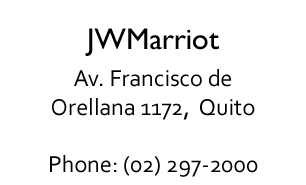
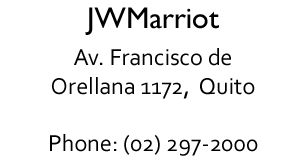
corre

Changed region(s): [[0.1471, 0.0305, 0.8529, 0.6707], [0.1471, 0.8232, 0.8529, 0.9756]]

diff --git a/bianca-spencer.html b/bianca-spencer.html
@@ -1598,8 +1598,6 @@
                         <p>&nbsp;</p>
                         <p>&nbsp;</p>
                         <p>&nbsp;</p>
-                        <p>- Dress Code -</p>
-                        <p>Formal - Black Tie Opcional</p>
                     </div>
                     <a class="nonblock nontext transition rounded-corners clearfix grpelem" id="u43135-4" href="https://goo.gl/maps/nwQYqJT55cfPmRgR6" target="_blank">
                         <!-- content -->
@@ -1620,10 +1618,10 @@
                         <!-- content -->
                         <p>Thursday, June 16th</p>
                         <p>Depart Time: 8:00 AM</p>
-                        <p>Cost per person: $159</p>
+
                         <p>&nbsp;</p>
 
-                        <p>Day trip to the historic Hato Verde farm where we will have recreational activities, includes transportation, activities and lunch
+                        <p>Day trip to the historic Porvenir farm where we will have recreational activities, includes transportation, activities and lunch
                         </p>
                         <p>&nbsp;</p>
                         <p>&nbsp;</p>
@@ -1720,7 +1718,7 @@
                 <div class="museBGSize" id="u43014">
 
                     <div class="clearfix" id="u43014_align_to_page">
-                        <img class="colelem" id="u43026-4" alt="" width="auto" height="61" src="images/letras2.png" data-hidpi-src="images/letras2.png" />
+                        <img class="colelem" id="u43026-4" alt="" width="auto" height="50" src="images/letras2.png" data-hidpi-src="images/letras2.png" />
 
                         <div class="clearfix colelem" id="u43029-13" style="color:black">
 
@@ -1760,7 +1758,7 @@
                         <div class="donde rounded-corners clearfix colelem" id="u41822-6">
                             <!-- content -->
                             <p id="u41822-2">CEREMONY AND RECEPCTION</p>
-                            <p id="u41822-4"><span id="u41822-3">Friday, July 30th 2022</span></p>
+                            <p id="u41822-4"><span id="u41822-3">Saturday, June 18th 2022</span></p>
                         </div>
 
                     </div>
@@ -1775,10 +1773,24 @@
                             <div class="clearfix colelem" id="u43035-4">
                                 <!-- content -->
                                 <p id="u41821-2">Ecuador</p>
-                                <p>Ecuador is a country with a vast and unparalleled natural and cultural wealth. The diversity of its four regions has given rise to hundreds of thousands of species of flora and fauna. It has about 1640 kinds of birds. Butterfly
+                                <p style="font-weight: 400;">Ecuador is a country with a vast and unparalleled natural and cultural wealth. The diversity of its four regions has given rise to hundreds of thousands of species of flora and fauna. It has about 1640 kinds of birds. Butterfly
                                     species border 4,500, reptiles 345, amphibians 358 and mammals 258, among others.
                                 </p>
+                                <p>&nbsp;</p>
+                                <p id="u41821-2">Travel in Ecuador</p>
+                                <p style="font-weight: 400;">We’ve assembled the best packages so you can travel around gorgeous Ecuador The travel agency will be at your service Hope you love it as much as we do!</p>
+                                <p>&nbsp;</p>
 
+                                <a class="nonblock nontext transition rounded-corners clearfix grpelem" id="tour" href="https://paquetes.speedtravel.com.ec/" target="_blank">
+                                    <!-- content -->
+                                    <p>TOURS</p>
+                                </a>
+
+
+                                <p>&nbsp;</p>
+                                <p>&nbsp;</p>
+                                <p>&nbsp;</p>
+                                <p id="u41821-2">Accomodation</p>
                             </div>
 
                             <div class="clearfix colelem" id="pu39888">
@@ -1790,7 +1802,7 @@
                             <div class="clearfix colelem" id="pu39882-12">
                                 <!-- group -->
                                 <a class="nonblock nontext grpelem" id="u39812-14" href="https://www.marriott.com/hotels/travel/uiodt-jw-marriott-hotel-quito/">
-                                    <!-- rasterized frame --><img id="u39812-14_img" alt="JWMarriot" width="306" height="185" src="images/Marriot.png" data-hidpi-src="images/Marriot.png" />
+                                    <!-- rasterized frame --><img id="u39812-14_img" alt="JWMarriot" width="auto" height="185" src="images/Marriot.png" data-hidpi-src="images/Marriot.png" />
                                 </a>
                             </div>
                             <div class="clearfix colelem" id="pu39885-4">

diff --git a/bianca-spencer-esp.html b/bianca-spencer-esp.html
@@ -1598,8 +1598,7 @@
                         <p>&nbsp;</p>
                         <p>&nbsp;</p>
                         <p>&nbsp;</p>
-                        <p>- Código de Vestimenta -</p>
-                        <p>Formal - Corbata Negra Opcional</p>
+
                     </div>
                     <a class="nonblock nontext transition rounded-corners clearfix grpelem" id="u43135-4" href="https://goo.gl/maps/nwQYqJT55cfPmRgR6" target="_blank">
                         <!-- content -->
@@ -1620,10 +1619,10 @@
                         <!-- content -->
                         <p>Jueves 16 de Junio</p>
                         <p>Hora de salida: 8:00 AM</p>
-                        <p>Costo por persona: $159</p>
+
                         <p>&nbsp;</p>
 
-                        <p>Day trip a la histórica granja de Hato Verde donde tendremos actividades recreativas, incluye transporte, actividades y almuerzo
+                        <p>Day trip a la histórica hacienda Porvenir donde tendremos actividades recreativas, incluye transporte, actividades y almuerzo
                         </p>
                         <p>&nbsp;</p>
                         <p>&nbsp;</p>
@@ -1761,7 +1760,7 @@
                         <div class="donde rounded-corners clearfix colelem" id="u41822-6">
                             <!-- content -->
                             <p id="u41822-2">CEREMONIA Y RECEPCIÓN</p>
-                            <p id="u41822-4"><span id="u41822-3">Viernes 30 de Julio del 2022</span></p>
+                            <p id="u41822-4"><span id="u41822-3">Sábado 18 de Junio del 2022</span></p>
                         </div>
 
                     </div>
@@ -1779,6 +1778,22 @@
                                 <p>Ecuador es un país con una vasta e inigualable riqueza natural y cultural. La diversidad de sus cuatro regiones ha dado lugar a cientos de miles de especies de flora y fauna. Tiene alrededor de 1640 clases de aves. Mariposa
                                     especies bordean 4.500, reptiles 345, anfibios 358 y mamíferos 258, entre otras.
                                 </p>
+
+                                <p>&nbsp;</p>
+                                <p id="u41821-2">Viaja en Ecuador</p>
+                                <p style="font-weight: 400;">Hemos reunido los mejores paquetes para que pueda viajar por el hermoso Ecuador. La agencia de viajes estará a su servicio. ¡Espero que le guste tanto como a nosotros!</p>
+                                <p>&nbsp;</p>
+
+                                <a class="nonblock nontext transition rounded-corners clearfix grpelem" id="tour" href="https://paquetes.speedtravel.com.ec/" target="_blank">
+                                    <!-- content -->
+                                    <p>TOURS</p>
+                                </a>
+
+
+                                <p>&nbsp;</p>
+                                <p>&nbsp;</p>
+                                <p>&nbsp;</p>
+                                <p id="u41821-2">Hospedaje</p>
 
                             </div>
 

diff --git a/css/bianca-spencer.css b/css/bianca-spencer.css
@@ -2,6 +2,53 @@
 
 */
 
+#tour {
+    z-index: 590;
+    width: 177px;
+    min-height: 33px;
+    -webkit-transition-duration: 1s;
+    -webkit-transition-delay: 0s;
+    -webkit-transition-timing-function: ease;
+    transition-duration: 1s;
+    transition-delay: 0s;
+    transition-timing-function: ease;
+    background-image: url("../images/blank.gif");
+    border-style: solid;
+    border-width: 1px;
+    border-color: #5E5B50;
+    background-color: transparent;
+    border-radius: 10px;
+    line-height: 31px;
+    color: #5E5B50;
+    text-align: center;
+    letter-spacing: 3px;
+    font-size: 14px;
+    font-family: gfs-didot, serif;
+    font-weight: 400;
+    margin-bottom: -1px;
+    position: relative;
+    margin-right: -10000px;
+    margin-top: -1px;
+    left: 390px;
+}
+
+#tour:hover {
+    background-color: #CEC8C1;
+    opacity: 0.73;
+    -ms-filter: "progid:DXImageTransform.Microsoft.Alpha(Opacity=73)";
+    filter: alpha(opacity=73);
+    padding-top: 0px;
+    padding-bottom: 0px;
+    min-height: 33px;
+    width: 177px;
+    margin: -1px -10000px -1px 0px;
+}
+
+#tour:hover p {
+    color: #000000;
+    visibility: inherit;
+}
+
 #u43854-4 {
     z-index: 1005;
     display: block;
@@ -3009,7 +3056,7 @@
     position: relative;
     margin-right: -10000px;
     width: 307px;
-    left: 337px;
+    left: 320px;
 }
 
 #u39846-12 {

diff --git a/css/bianca-spencer-esp.css b/css/bianca-spencer-esp.css
@@ -2,6 +2,53 @@
 
 */
 
+#tour {
+    z-index: 590;
+    width: 177px;
+    min-height: 33px;
+    -webkit-transition-duration: 1s;
+    -webkit-transition-delay: 0s;
+    -webkit-transition-timing-function: ease;
+    transition-duration: 1s;
+    transition-delay: 0s;
+    transition-timing-function: ease;
+    background-image: url("../images/blank.gif");
+    border-style: solid;
+    border-width: 1px;
+    border-color: #5E5B50;
+    background-color: transparent;
+    border-radius: 10px;
+    line-height: 31px;
+    color: #5E5B50;
+    text-align: center;
+    letter-spacing: 3px;
+    font-size: 14px;
+    font-family: gfs-didot, serif;
+    font-weight: 400;
+    margin-bottom: -1px;
+    position: relative;
+    margin-right: -10000px;
+    margin-top: -1px;
+    left: 390px;
+}
+
+#tour:hover {
+    background-color: #CEC8C1;
+    opacity: 0.73;
+    -ms-filter: "progid:DXImageTransform.Microsoft.Alpha(Opacity=73)";
+    filter: alpha(opacity=73);
+    padding-top: 0px;
+    padding-bottom: 0px;
+    min-height: 33px;
+    width: 177px;
+    margin: -1px -10000px -1px 0px;
+}
+
+#tour:hover p {
+    color: #000000;
+    visibility: inherit;
+}
+
 #u43854-4 {
     z-index: 1005;
     display: block;
